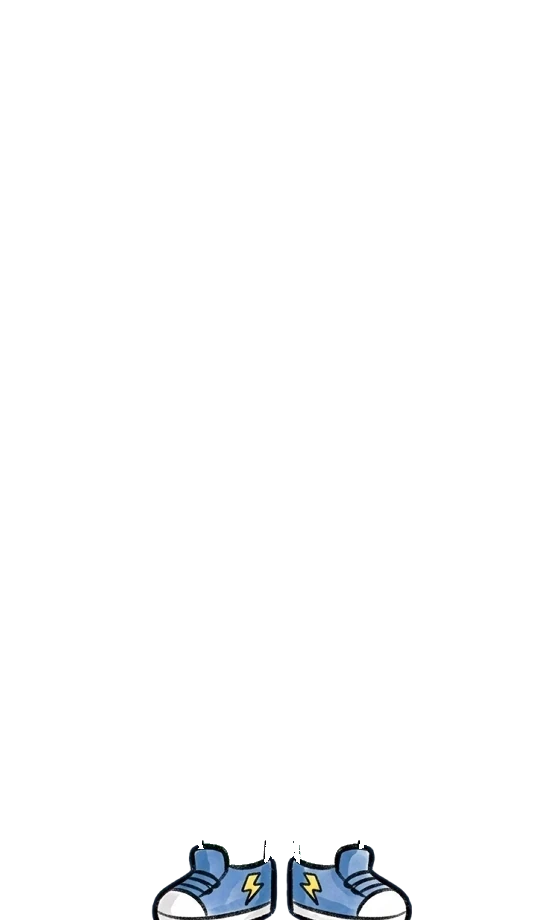
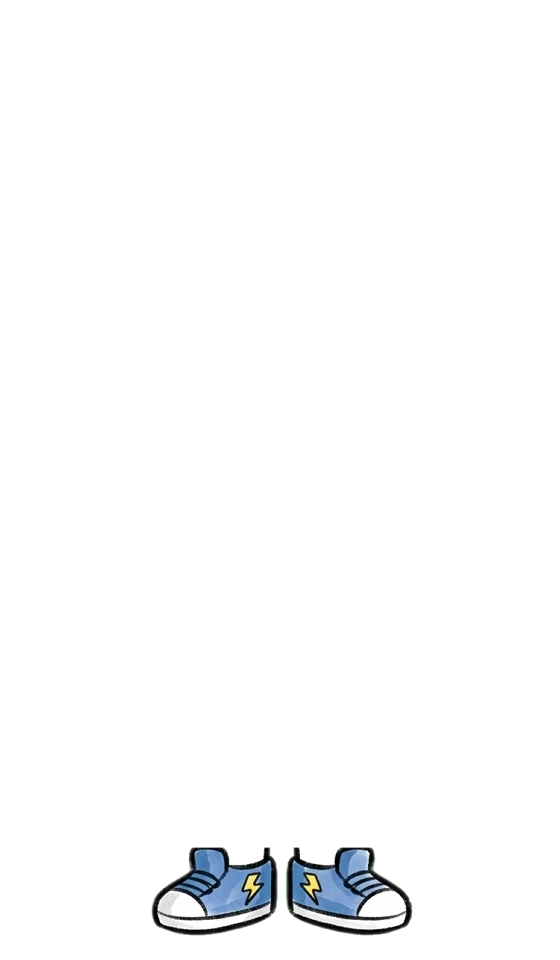
Zapatos de Cebollo sin las suelas cortadas
Las capas de zapatos pasan a 560x960 (40 px de margen bajo los pies, con su
propia regla de CSS) para que las suelas no se corten en el borde, y traen
las punteras blancas completas. El resto de la ropa no cambia.

Changed region(s): [[0.2732, 0.8826, 0.7589, 1.0]]

diff --git a/css/estudiante.css b/css/estudiante.css
@@ -369,6 +369,8 @@ html,body{overflow-x:clip}
 .cebollo-tronco{transform-origin:50% 100%; animation:cebollo-respira 2.6s ease-in-out infinite}
 /* Ropa: capa de 560x920 = lienzo de 440x800 con 60 px a cada lado y 120 arriba (gorras y sombreros). */
 .cebollo img.cebollo-ropa, .ceb-mini img.cebollo-ropa{left:-13.636%; top:-15%; width:127.273%; height:115%}
+/* Zapatos: capa de 560x960 (40 px más abajo para que las suelas no se corten en el borde). */
+.cebollo img.cebollo-ropa[data-ranura="pies"], .ceb-mini img.cebollo-ropa[data-ranura="pies"]{height:120%}
 .cebollo-cabeza{transform-origin:50% 61.5%; animation:cebollo-cabecea 2.6s ease-in-out infinite}
 .cebollo-cara{opacity:0}
 .cebollo[data-cara="normal"] .cebollo-cara[data-cara="normal"],
